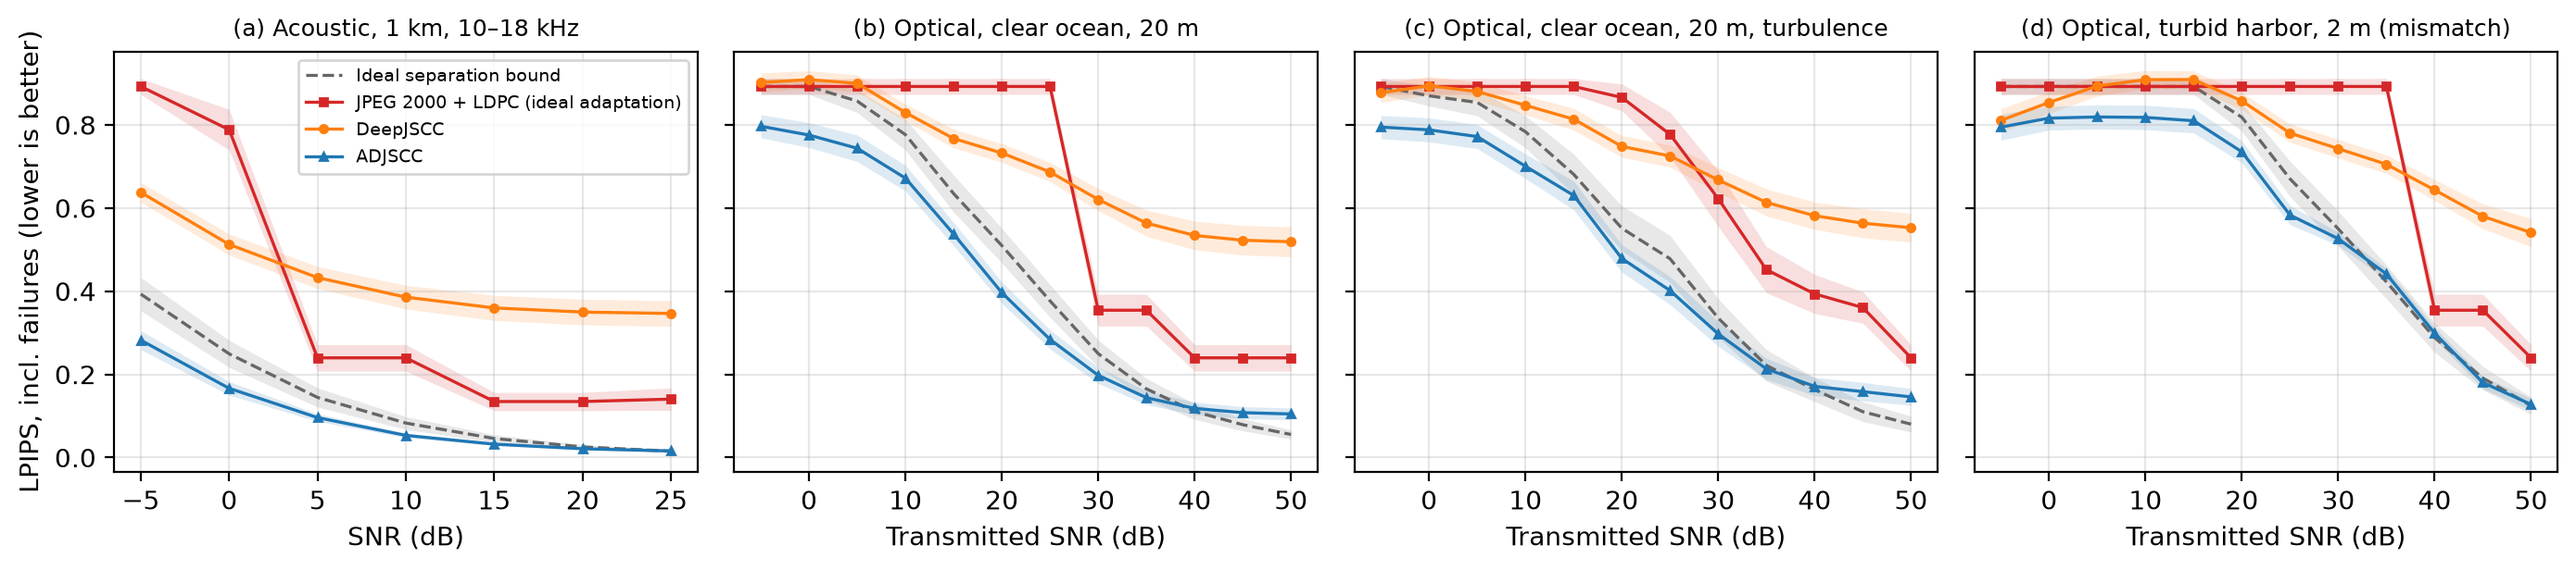
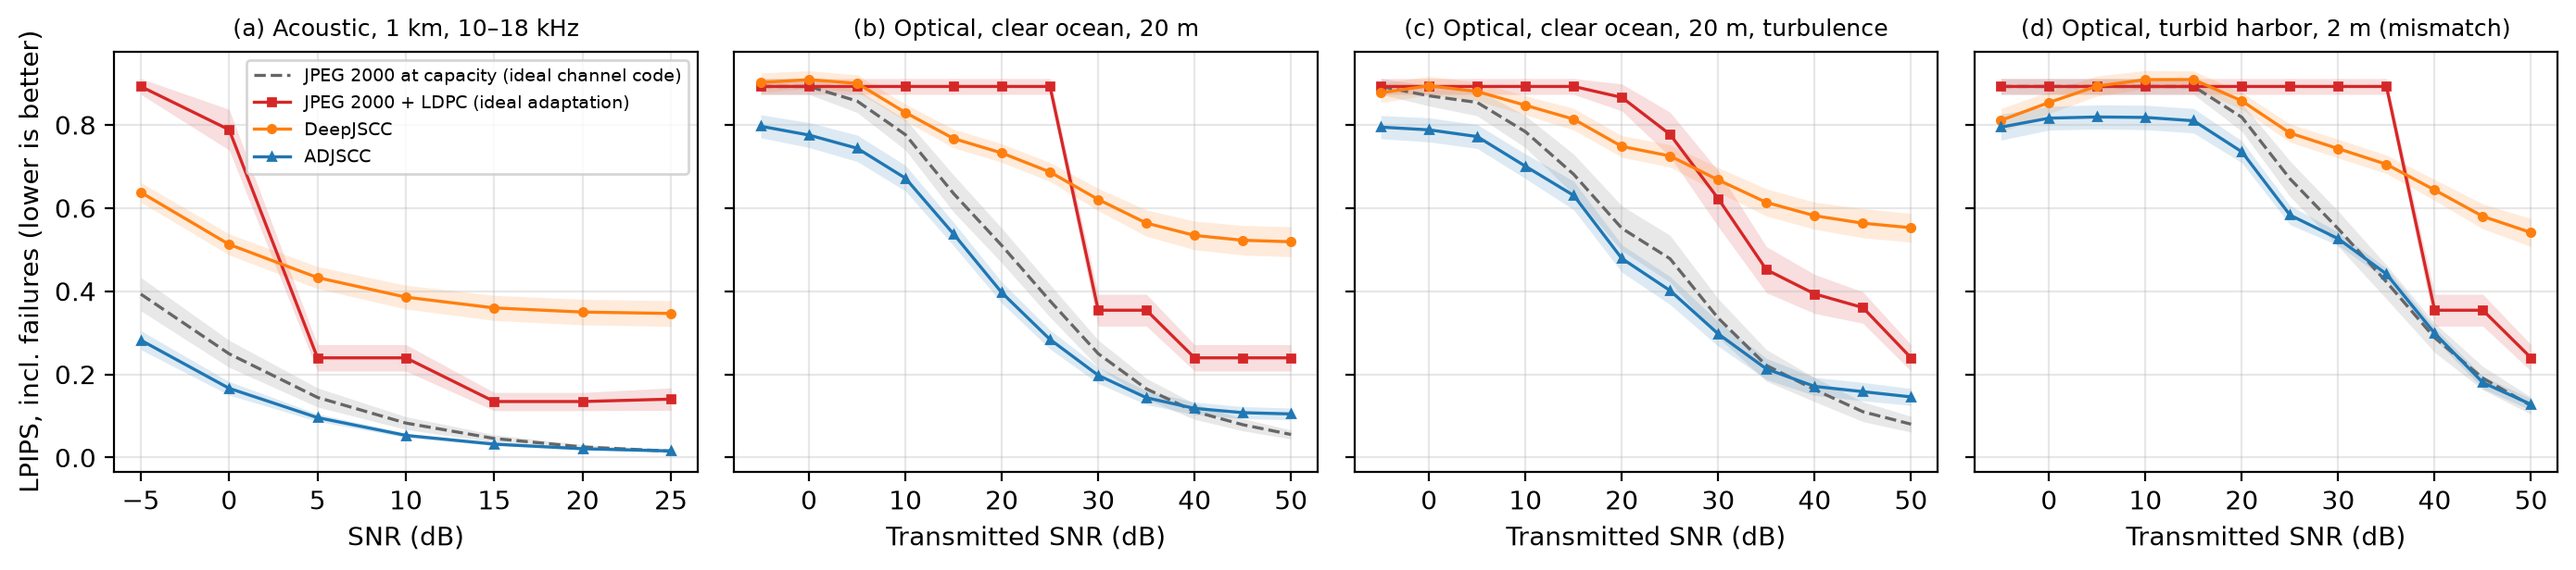
Name the ideal separation curve "JPEG 2000 at capacity"
The curve combines an ideal channel code with JPEG 2000, so it limits
separation with JPEG 2000 but not joint coding, which can exceed it at
low SNR and in LPIPS. The system name ideal_separation is unchanged.

Changed region(s): [[0.0928, 0.0925, 0.2784, 0.3084]]

diff --git a/uwbench/baselines/separation.py b/uwbench/baselines/separation.py
@@ -1,4 +1,4 @@
-"""Separate source-channel coding baseline and ideal separation bound.
+"""Separate source-channel coding baseline and JPEG 2000 at capacity.
 
 Chain (:class:`SeparationScheme`), per image of size ``H x W x C``:
 
@@ -18,7 +18,7 @@ Results keep this flag; the failure rate is reported separately from the fidelit
 decoded images. For curves that include failures, an undecoded image is replaced by a
 uniform mid-grey image (value 128), documented as ``FALLBACK_VALUE``.
 
-Ideal separation bound (:func:`ideal_separation`): the source rate equals the channel
+JPEG 2000 at capacity (:func:`ideal_separation`): the source rate equals the channel
 capacity times the bandwidth ratio, ``bpp = rho C Cbar`` with ``Cbar`` the capacity per
 channel use of the current realisation with perfect CSI and uniform power,
 ``mean_i log2(1 + 1 / v_i)`` for complex channels and ``mean_i 0.5 log2(1 + 1 / v_i)``

diff --git a/scripts/plot_results.py b/scripts/plot_results.py
@@ -24,7 +24,7 @@ PANELS = [("uac_modeled_short", "(a) Acoustic, 1 km, 10–18 kHz"),
           ("uwoc_turbulence_moderate", "(c) Optical, clear ocean, 20 m, turbulence"),
           ("uwoc_turbid", "(d) Optical, turbid harbor, 2 m (mismatch)")]
 # (file prefix, scheme inside the file, legend label, style)
-CURVES = [("ideal_separation", "ideal_separation", "Ideal separation bound",
+CURVES = [("ideal_separation", "ideal_separation", "JPEG 2000 at capacity (ideal channel code)",
            {"color": "0.4", "linestyle": "--"}),
           ("jpeg2000_ldpc", "ideal_adaptation", "JPEG 2000 + LDPC (ideal adaptation)",
            {"color": "tab:red", "marker": "s"}),

diff --git a/README.md b/README.md
@@ -10,7 +10,7 @@ Existing works evaluate their schemes on different channels, datasets, rates and
 - **reference channels:** modelled and measured (Watermark) acoustic links, optical IM/DD links with attenuation, turbulence and pointing errors;
 - **frozen, deduplicated splits** of six public underwater image datasets;
 - **metrics:** PSNR, MS-SSIM, LPIPS, failure rate, rate and complexity;
-- **baselines:** a separate source-channel coding chain (JPEG 2000 + 5G NR LDPC) with its ideal separation bound, and re-implemented DeepJSCC and ADJSCC;
+- **baselines:** a separate source-channel coding chain (JPEG 2000 + 5G NR LDPC) with a JPEG 2000-at-capacity reference, and re-implemented DeepJSCC and ADJSCC;
 - **one result format and report**, with full provenance.
 
 The full specification is in [PROTOCOL.md](PROTOCOL.md).
@@ -43,7 +43,7 @@ UIEB test split (89 images), bandwidth ratio ρ = k/n = 1/6, one channel realisa
 ![LPIPS versus SNR](docs/figures/lpips.png)
 
 - The separation chain shows the **cliff effect**: no image is decoded below a threshold SNR (mid-grey fallback, 11.8 dB), then the quality saturates.
-- **ADJSCC degrades gracefully.** It delivers 29.2 dB at −5 dB on the acoustic link, where the separation chain decodes nothing, and stays 1.7 to 5.3 dB below the ideal separation bound.
+- **ADJSCC degrades gracefully.** It delivers 29.2 dB at −5 dB on the acoustic link, where the separation chain decodes nothing, and stays 1.7 to 5.3 dB below JPEG 2000 at capacity (an ideal channel code carrying a JPEG 2000 image); it goes above it at low SNR, where JPEG 2000 has too few bits to code any image, and in LPIPS.
 - **DeepJSCC** (0.16 M parameters, not SNR-aware) saturates at 28.3 dB (acoustic) and 24.6 dB (optical).
 - Under **mismatch** (d), ADJSCC is told an SNR 11.6 dB too high and loses up to 5 dB at low SNR, while the SNR-agnostic DeepJSCC follows its clear-ocean curve.
 
@@ -224,7 +224,7 @@ Deviations from the papers are listed in PROTOCOL.md §7. Trained weights are no
 | Deduplication and frozen splits | `uwbench/data/`, `splits/`, `configs/splits.yaml` |
 | Channels: AWGN, modelled acoustic OFDM, Watermark replay, optical IM/DD | `uwbench/channels/`, `configs/scenarios/` |
 | Metrics: PSNR, MS-SSIM, LPIPS, bpp and k/n, parameters, FLOPs, latency | `uwbench/metrics/` |
-| Separation baseline (JPEG or JPEG 2000, CRC-32, LDPC, BPSK to 16-QAM or OOK/4-PAM) and ideal bound | `uwbench/baselines/`, `configs/baselines/` |
+| Separation baseline (JPEG or JPEG 2000, CRC-32, LDPC, BPSK to 16-QAM or OOK/4-PAM) and JPEG 2000 at capacity | `uwbench/baselines/`, `configs/baselines/` |
 | Evaluation engine, result schema, report | `uwbench/eval/` |
 | Model interface, training, DeepJSCC, ADJSCC, WITT | `uwbench/models/`, `configs/models/` |
 | Reference results and figures | `reference_results/`, `docs/figures/`, `scripts/` |

diff --git a/PROTOCOL.md b/PROTOCOL.md
@@ -274,11 +274,12 @@ undecoded image on a uniform mid-grey image (value 128: 11.8 dB on UIEB).
 **Ideal adaptation.** Each (modulation, rate) pair is a separate scheme; the ideal
 adaptation curve takes, at each SNR, the best one by mean PSNR including failures.
 
-**Ideal separation bound.** JPEG 2000 at bpp = ρ C C̄, received without error, where C̄
+**JPEG 2000 at capacity** (system `ideal_separation`). JPEG 2000 at bpp = ρ C C̄, received without error, where C̄
 is the capacity per channel use of the current realisation (mean log₂(1 + 1/vᵢ) for
-complex channels, half of it for the real optical channel). It is not achievable
+complex channels, half of it for the real optical channel). This ideal channel code is not achievable
 (infinite blocks, Gaussian inputs, no non-negativity constraint, no inter-carrier
-interference) and it bounds separation with JPEG 2000 only: when the capacity is too low
+interference). The curve is therefore an upper limit for separation with JPEG 2000, not
+for joint coding, whose source coding is not JPEG 2000: when the capacity is too low
 for JPEG 2000 to code the image at all, it falls back to the mid-grey image, and a joint
 scheme can do better.
 
